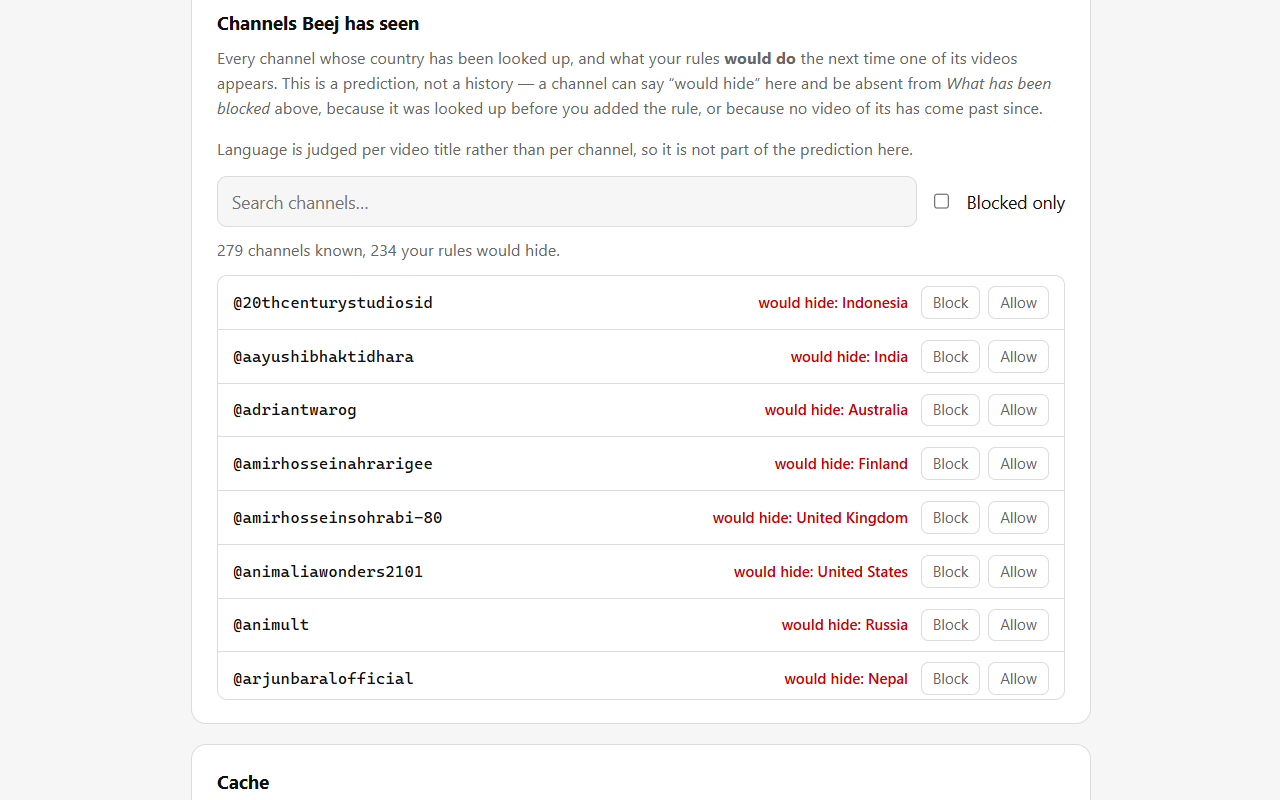
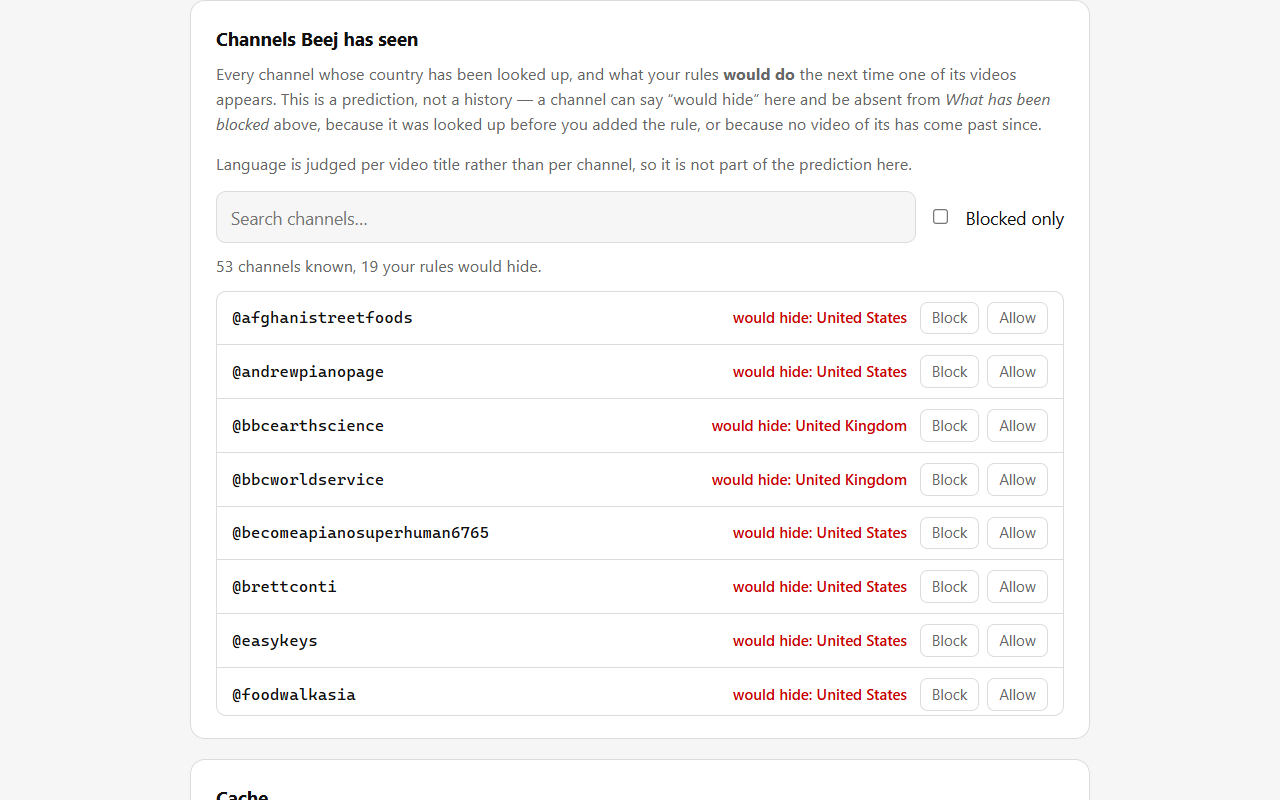
Retake the channel-table store shot from a clean profile
The previous image was cropped from a personal browser and listed channels
from its own cache. The new one is produced by tools/screenshots.js from a
throwaway profile, filled by browsing a few public searches with the
country rules on.

diff --git a/tools/screenshots.js b/tools/screenshots.js
@@ -1,5 +1,6 @@
 #!/usr/bin/env node
-/* Screenshots for the user guide in docs/images/.
+/* Screenshots for the user guide in docs/images/, plus the store's
+   store/screenshot-4-channels.png.
 
      npm install && npx playwright install chromium
      npm run screenshots
@@ -39,8 +40,8 @@ function demoKey() {
     { encoding: 'utf8' }).trim();
 }
 
-async function shoot(target, name) {
-  const file = path.join(OUT, name + '.png');
+async function shoot(target, name, dir) {
+  const file = path.join(dir || OUT, name + '.png');
   await target.screenshot({ path: file, animations: 'disabled' });
   console.log('wrote', path.relative(ROOT, file));
 }
@@ -51,6 +52,34 @@ async function openOptions(context, id) {
   await page.goto('chrome-extension://' + id + '/src/options/options.html');
   await page.waitForSelector('body:not(.booting)');
   return page;
+}
+
+/* The store's "Channels Beej has seen" shot. The table is filled by real
+   lookups, from browsing a few searches with the country rules on, so every
+   channel and country in it is what YouTube actually reports. The page is
+   zoomed to 125% to match the other store shots at 1280x800. */
+const SEARCHES = ['science documentary', 'street food', 'travel vlog', 'piano tutorial'];
+
+async function shootChannelTable(context, id) {
+  const yt = await context.newPage();
+  for (const q of SEARCHES) {
+    await yt.goto('https://www.youtube.com/results?search_query=' + encodeURIComponent(q));
+    await yt.waitForTimeout(4000);
+    await yt.mouse.wheel(0, 3000);
+    await yt.waitForTimeout(4000);
+  }
+  await yt.close();
+
+  const page = await openOptions(context, id);
+  await page.waitForFunction(() => /channels? known/.test(
+    document.getElementById('channel-summary').textContent), null, { timeout: 30000 });
+  await page.evaluate(() => {
+    document.body.style.zoom = '1.25';
+    document.getElementById('channel-table').closest('.card').scrollIntoView();
+  });
+  await page.waitForTimeout(500);
+  await shoot(page, 'screenshot-4-channels', path.join(ROOT, 'store'));
+  await page.close();
 }
 
 async function main() {
@@ -77,6 +106,8 @@ async function main() {
 
     const card = page.locator('#lock-card');
     await shoot(card, 'lock-pro');
+
+    await shootChannelTable(context, id);
 
     const key = demoKey();
     if (!key) {
